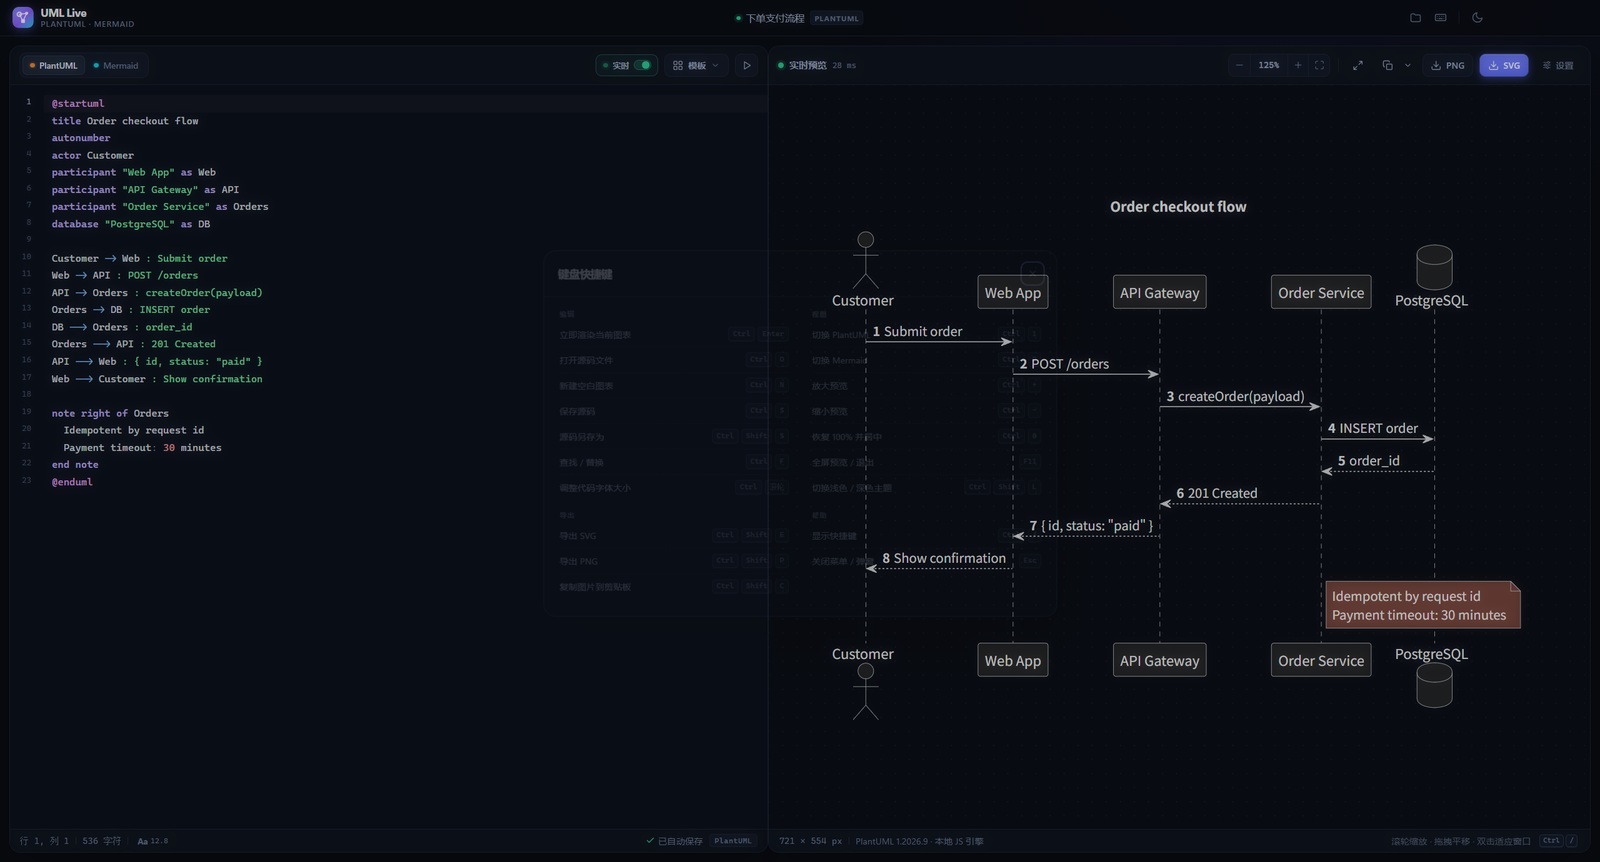
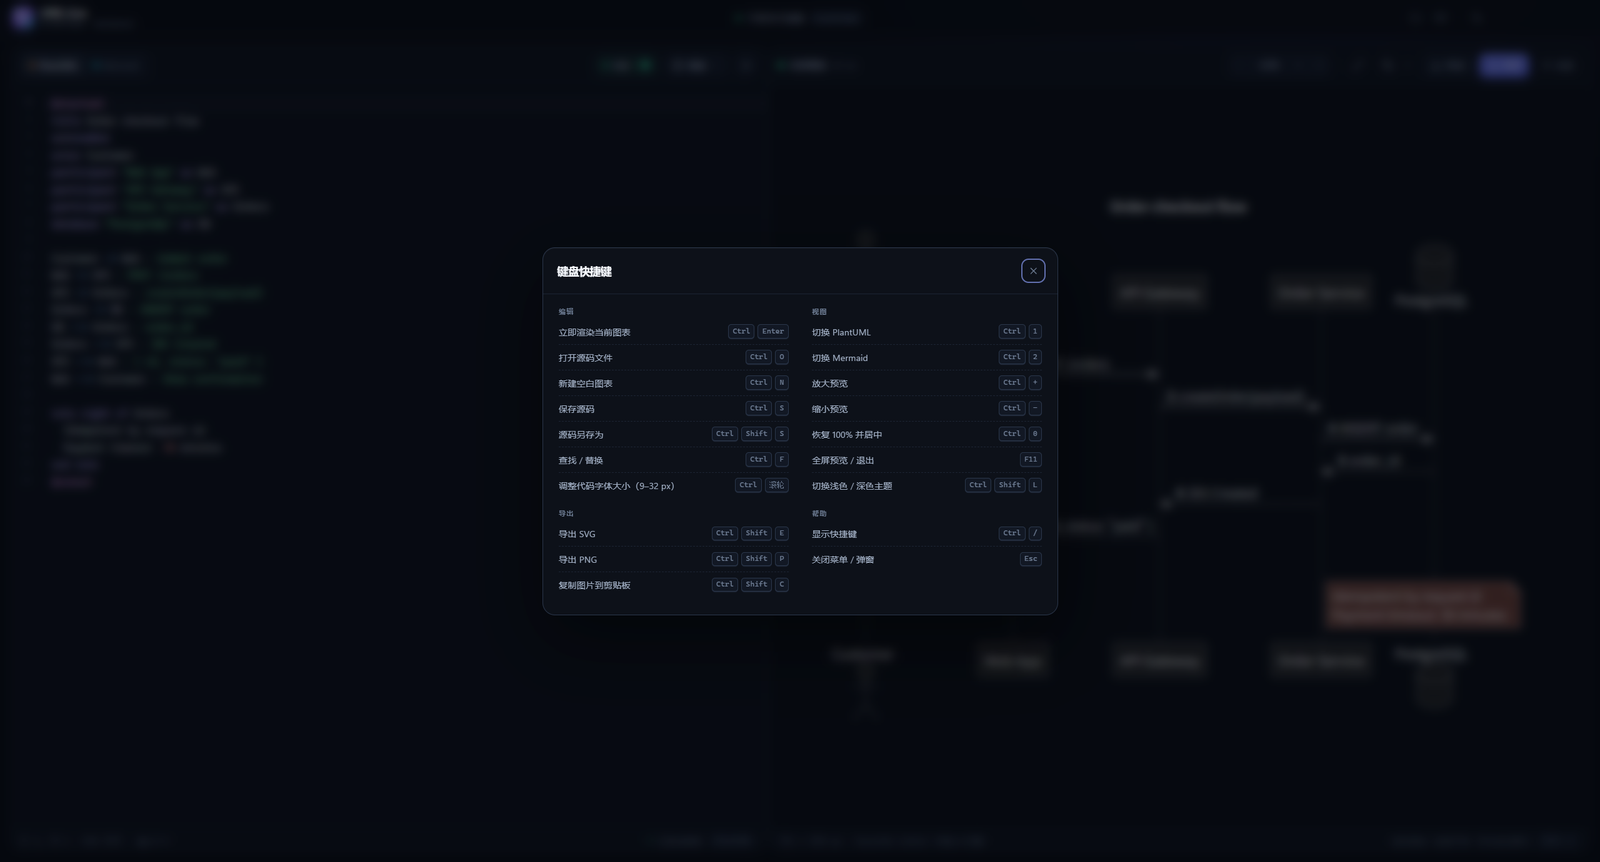
Bound editor font zoom to 9-32px

diff --git a/src/js/main.js b/src/js/main.js
@@ -313,9 +313,12 @@ function updateCursorInfo(info) {
 
 function updateEditorFontUi() {
   const size = state.editorFontSize.toFixed(1);
+  const atMin = state.editorFontSize <= EDITOR_FONT_MIN + 0.01;
+  const atMax = state.editorFontSize >= EDITOR_FONT_MAX - 0.01;
+  const limitHint = atMin ? ' · 已到最小字号' : atMax ? ' · 已到最大字号' : '';
   dom.editorFontSize.textContent = size;
-  dom.editorFontBtn.title = `代码字体 ${size} px · Ctrl+滚轮调整，点击重置`;
-  dom.editorFontBtn.setAttribute('aria-label', `代码字体 ${size} 像素，点击重置`);
+  dom.editorFontBtn.title = `代码字体 ${size} px（范围 ${EDITOR_FONT_MIN}–${EDITOR_FONT_MAX} px）· Ctrl+滚轮调整，点击重置${limitHint}`;
+  dom.editorFontBtn.setAttribute('aria-label', `代码字体 ${size} 像素，范围 ${EDITOR_FONT_MIN} 到 ${EDITOR_FONT_MAX} 像素，点击重置`);
 }
 
 function updateRenderButton() {
@@ -1431,7 +1434,7 @@ function openShortcutsModal() {
       ['保存源码', ['Ctrl', 'S']],
       ['源码另存为', ['Ctrl', 'Shift', 'S']],
       ['查找 / 替换', ['Ctrl', 'F']],
-      ['调整代码字体大小', ['Ctrl', '滚轮']],
+      ['调整代码字体大小（9–32 px）', ['Ctrl', '滚轮']],
     ]),
     shortcutSection('导出', [
       ['导出 SVG', ['Ctrl', 'Shift', 'E']],
